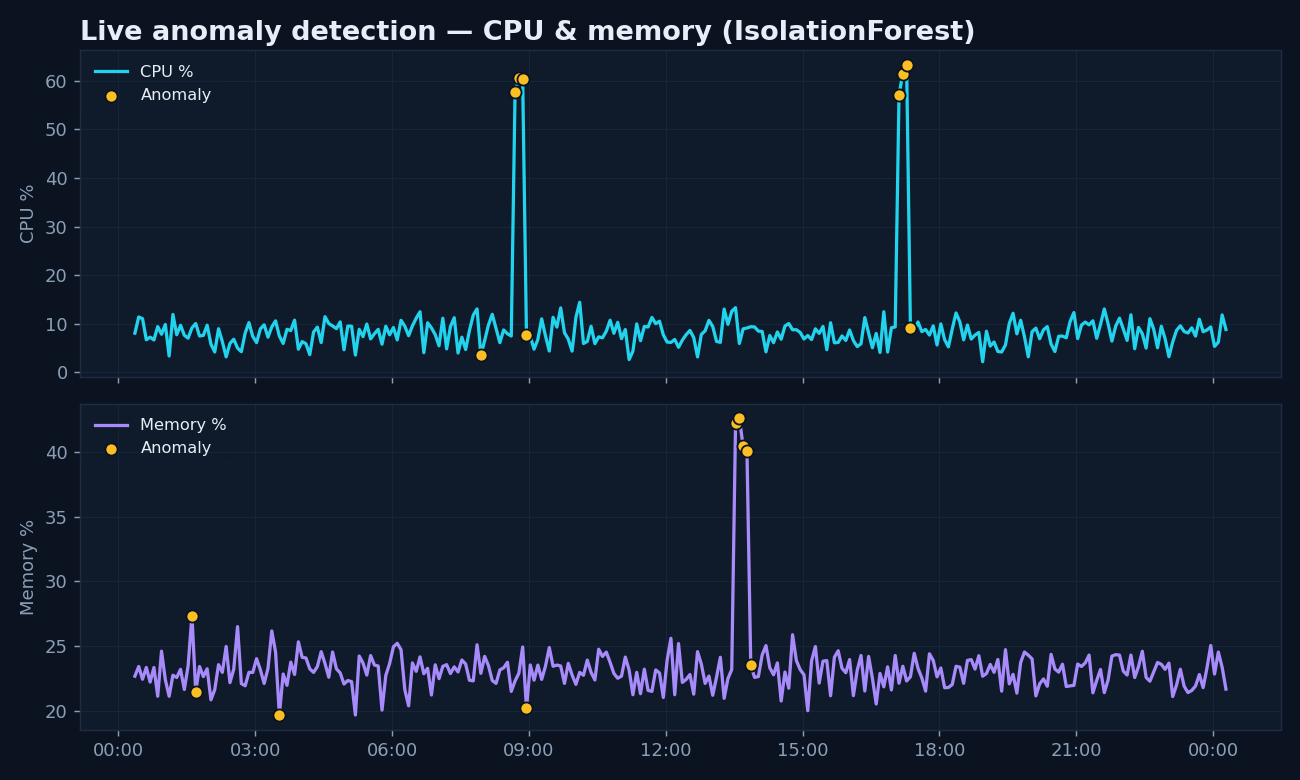
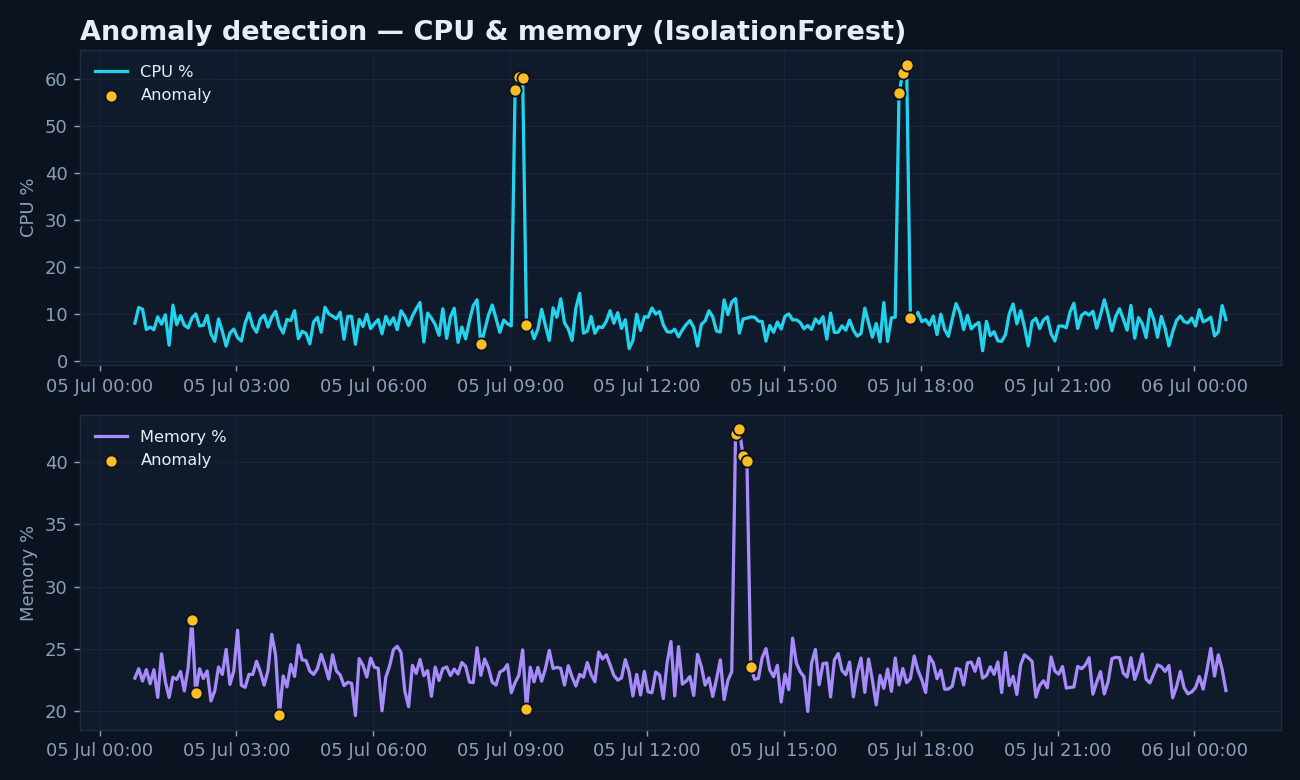
Fix per-metric timestamp alignment; validated live against Grafana Cloud

diff --git a/detect_anomalies.py b/detect_anomalies.py
@@ -46,15 +46,16 @@ def demo_data(hours=24, step_min=5, seed=11):
     for c in (int(n*0.35), int(n*0.7)):
         cpu[c:c+3] += rng.uniform(45, 70)                  # CPU spikes
     mem[int(n*0.55):int(n*0.55)+4] += 18                   # a memory blip
-    return dates, {"CPU %": cpu, "Memory %": mem}
+    return {"CPU %": (dates, cpu), "Memory %": (dates, mem)}   # per-metric (dates, values)
 
 
 def query_prometheus(hours):
+    """Returns {name: (dates, values)} — each metric keeps its own timestamps."""
     import requests
     base = os.environ["GRAFANA_PROM_URL"].rstrip("/") + "/api/v1/query_range"
     user, token = os.environ["GRAFANA_PROM_USER"], os.environ["GRAFANA_PROM_TOKEN"]
     end = datetime.now(); start = end - timedelta(hours=hours)
-    series, dates = {}, None
+    data = {}
     for name, promql in PROMQL.items():
         r = requests.get(base, auth=(user, token), params={
             "query": promql, "start": start.timestamp(), "end": end.timestamp(), "step": "300"})
@@ -63,9 +64,10 @@ def query_prometheus(hours):
         if not res:
             raise SystemExit(f"No data for '{name}'. Check the endpoint/token/time range.")
         vals = res[0]["values"]
-        dates = np.array([datetime.fromtimestamp(float(ts)) for ts, _ in vals])
-        series[name] = np.array([float(v) for _, v in vals])
-    return dates, series
+        d = np.array([datetime.fromtimestamp(float(ts)) for ts, _ in vals])
+        v = np.array([float(x) for _, x in vals])
+        data[name] = (d, v)
+    return data
 
 
 def detect(values):
@@ -76,26 +78,26 @@ def detect(values):
     return model.fit_predict(X) == -1
 
 
-def render(dates, series, out_png):
+def render(data, out_png, title):
     plt.rcParams.update({"figure.facecolor": BG, "axes.facecolor": PANEL, "text.color": INK,
                          "axes.labelcolor": MUTED, "xtick.color": MUTED, "ytick.color": MUTED,
                          "axes.edgecolor": GRID, "font.family": "DejaVu Sans"})
-    names = list(series.keys())
-    fig, axes = plt.subplots(len(names), 1, figsize=(10, 6), dpi=130, sharex=True)
+    names = list(data.keys())
+    fig, axes = plt.subplots(len(names), 1, figsize=(10, 6), dpi=130)
+    if len(names) == 1: axes = [axes]
     colors = [CYAN, VIOLET]
     total = 0
     for ax, name, col in zip(axes, names, colors):
-        vals = series[name]; mask = detect(vals); total += int(mask.sum())
+        dates, vals = data[name]; mask = detect(vals); total += int(mask.sum())
         ax.plot(dates, vals, color=col, lw=1.8, label=name)
         if mask.any():
-            ax.scatter(np.array(dates)[mask], vals[mask], color=AMBER, s=45,
+            ax.scatter(dates[mask], vals[mask], color=AMBER, s=45,
                        zorder=5, edgecolor=BG, label="Anomaly")
         ax.set_ylabel(name); ax.grid(True, color=GRID, lw=0.6, alpha=0.6)
+        ax.xaxis.set_major_formatter(mdates.DateFormatter("%d %b %H:%M"))
         leg = ax.legend(loc="upper left", framealpha=0.15, facecolor=PANEL, edgecolor=GRID, fontsize=9)
         for t in leg.get_texts(): t.set_color(INK)
-    axes[0].set_title("Live anomaly detection — CPU & memory (IsolationForest)",
-                      color=INK, fontsize=15, fontweight="bold", loc="left")
-    axes[-1].xaxis.set_major_formatter(mdates.DateFormatter("%H:%M"))
+    axes[0].set_title(title, color=INK, fontsize=15, fontweight="bold", loc="left")
     fig.tight_layout(); fig.savefig(out_png, facecolor=BG)
     print(f"Chart written to {out_png}  |  anomalies flagged: {total}")
 
@@ -106,15 +108,17 @@ def main():
     ap.add_argument("--hours", type=int, default=24)
     ap.add_argument("--out", default="anomaly-detection.png")
     args = ap.parse_args()
-    dates, series = (query_prometheus(args.hours) if args.source == "prometheus"
-                     else demo_data(args.hours))
+    data = (query_prometheus(args.hours) if args.source == "prometheus"
+            else demo_data(args.hours))
     print("=" * 60)
     print(f"Anomaly detection  (source: {args.source})")
-    for name, vals in series.items():
+    for name, (dates, vals) in data.items():
         m = detect(vals)
         print(f"  {name:9s}: {int(m.sum())} anomalies  (latest {vals[-1]:.1f})")
     print("=" * 60)
-    render(dates, series, args.out)
+    title = ("Live anomaly detection — CPU & memory (IsolationForest)" if args.source == "prometheus"
+             else "Anomaly detection — CPU & memory (IsolationForest)")
+    render(data, args.out, title)
 
 
 if __name__ == "__main__":